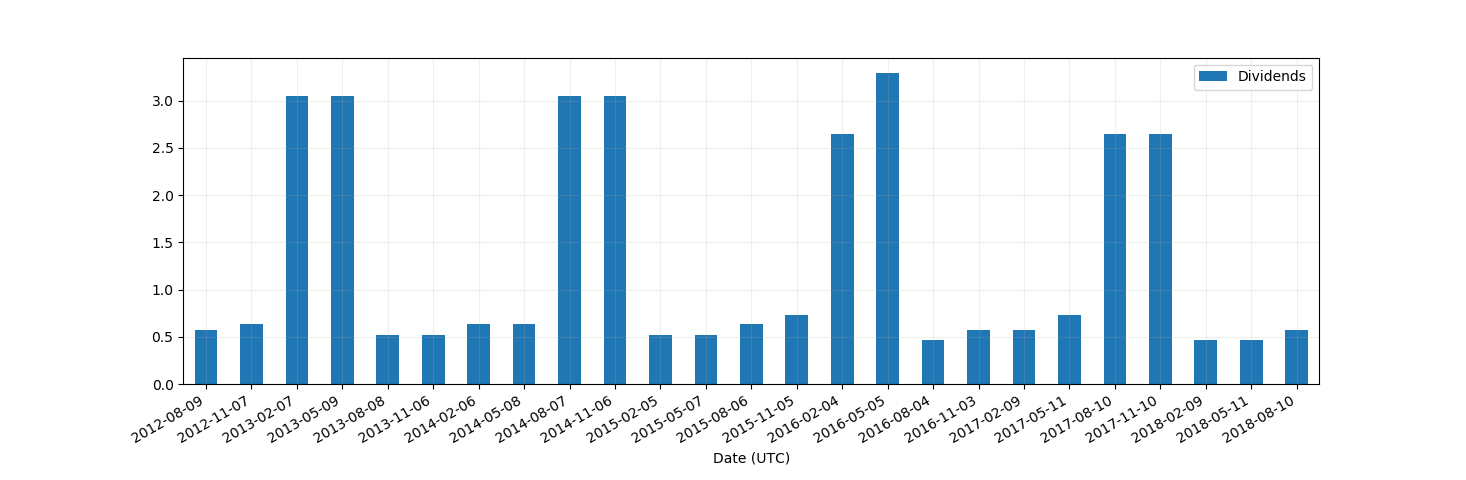
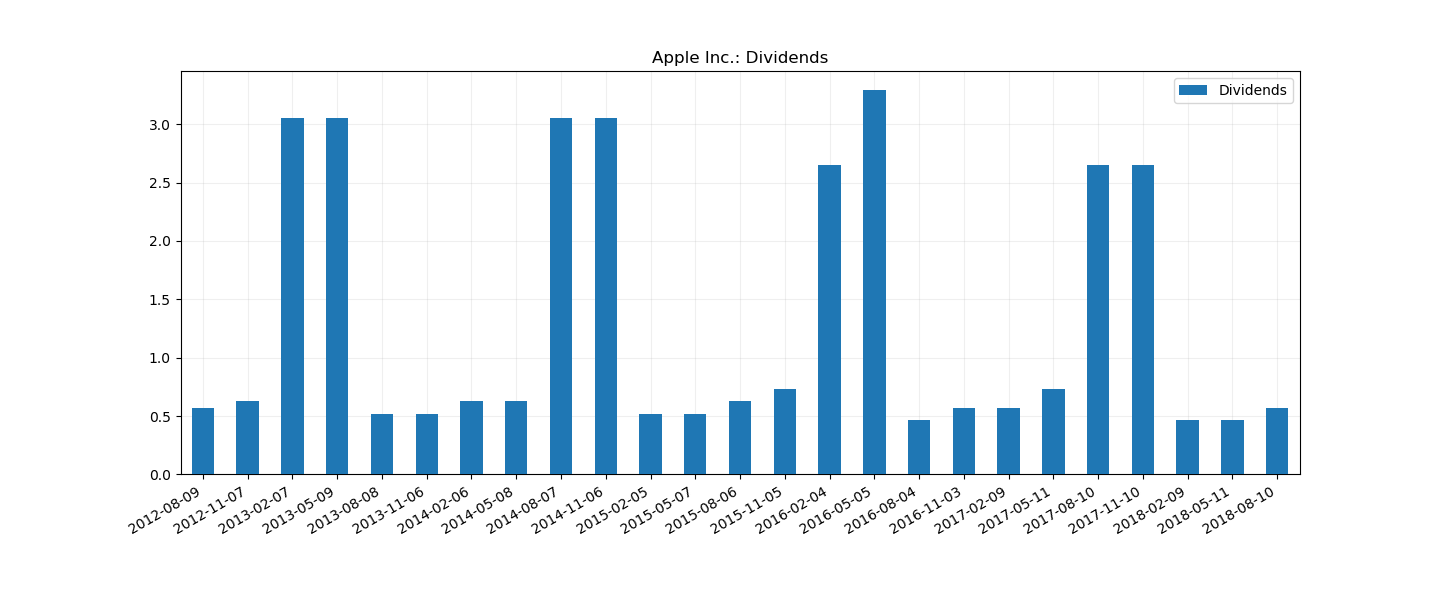
update

diff --git a/examples/getting_dividends.py b/examples/getting_dividends.py
@@ -17,13 +17,15 @@ if __name__ == '__main__':
     
     r = yahoo.Get.Dividends("AAPL", period=['1998-09-1','2018-08-31']);
     if r is not None:
-        r.plot(kind='bar', ax=ax);
+        r.index.name = "";
+        r.plot(kind='bar', ax=ax, zorder=100);
         ax.grid(True, alpha=0.2);
         ax.xaxis.set_major_formatter(mticker.FixedFormatter([item.strftime('%Y-%m-%d') for item in r.index]));
         print(r);
     else:
         print("something odd happened o.O");
     
+    plt.title("Apple Inc.: Dividends")
     plt.gcf().autofmt_xdate();
     plt.show();
 

diff --git a/examples/getting_stock_splits.py b/examples/getting_stock_splits.py
@@ -12,7 +12,7 @@ import yahoo_finance_pynterface as yahoo
 
 if __name__ == '__main__':
 
-    r = yahoo.Get.Splits("AAPL", period=['1980-1-1','2018-08-31'], using_api=yahoo.api.AccessMode.DOWNLOAD);
+    r = yahoo.Get.Splits("AAPL", period=['1980-1-1','2018-08-31'], using_api=yahoo.api.AccessModeInQuery.DOWNLOAD);
     print(r if len(r)>0 else "something odd happened o.O");
 
 
